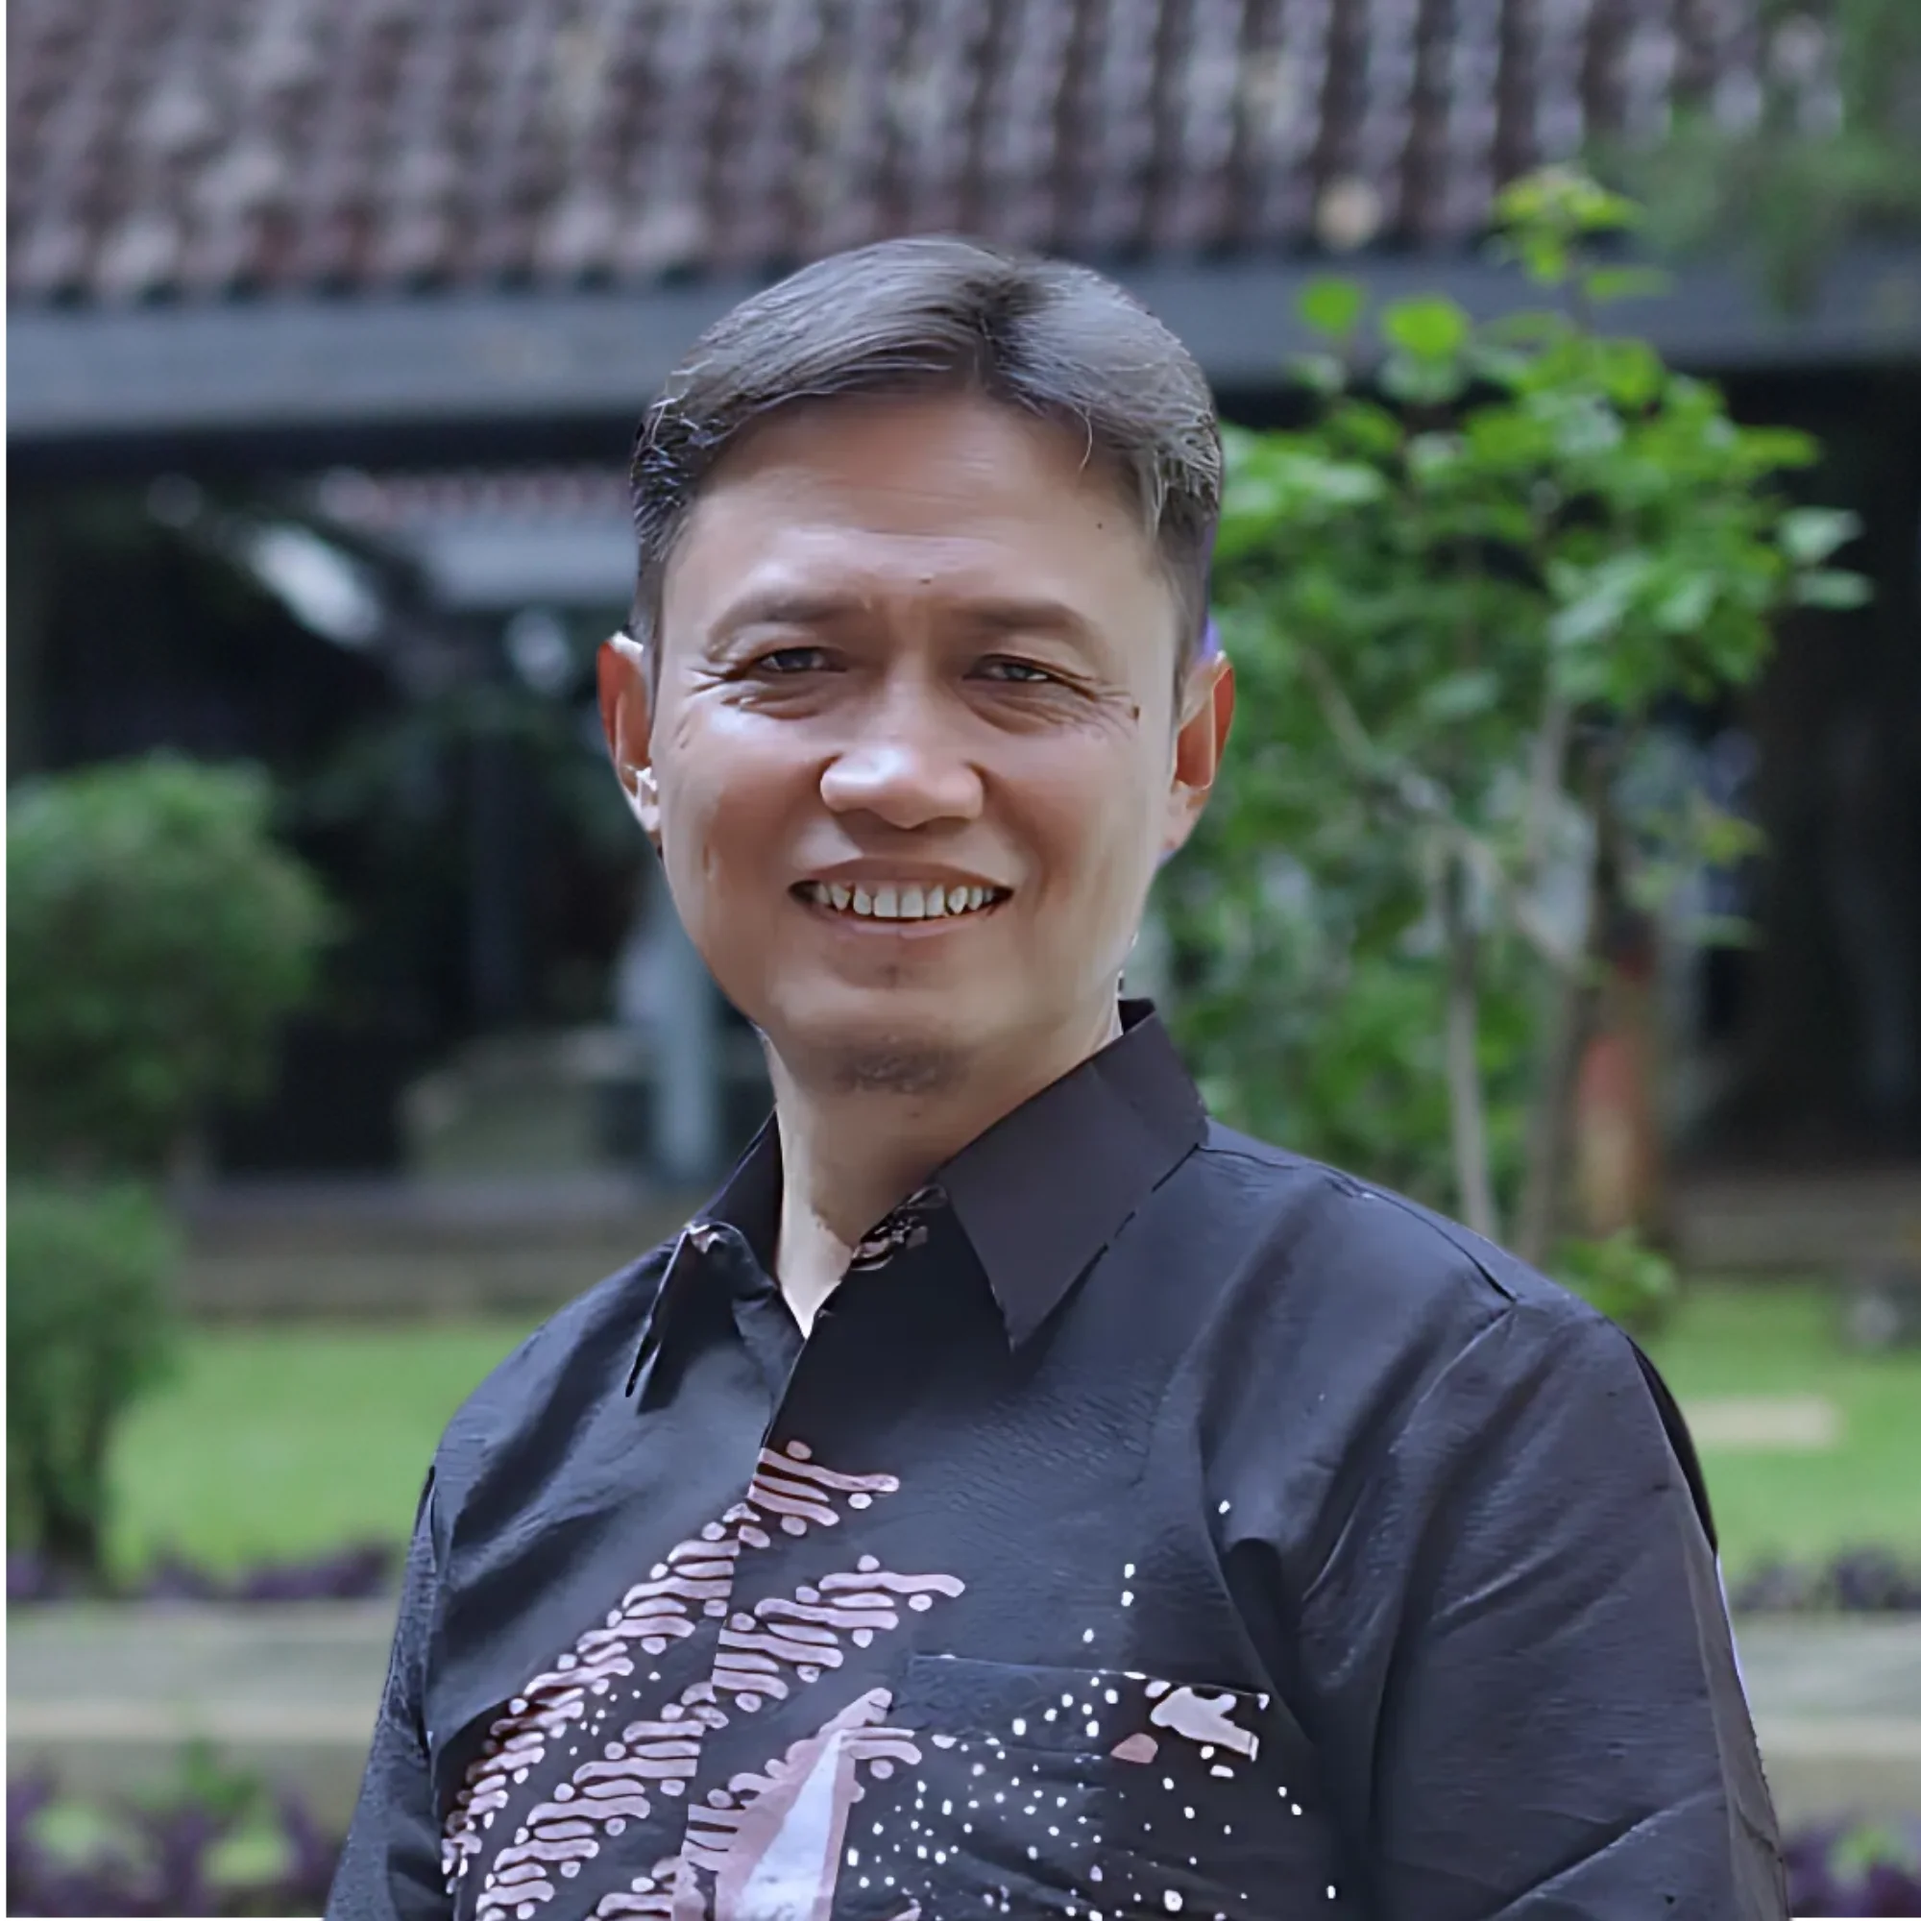
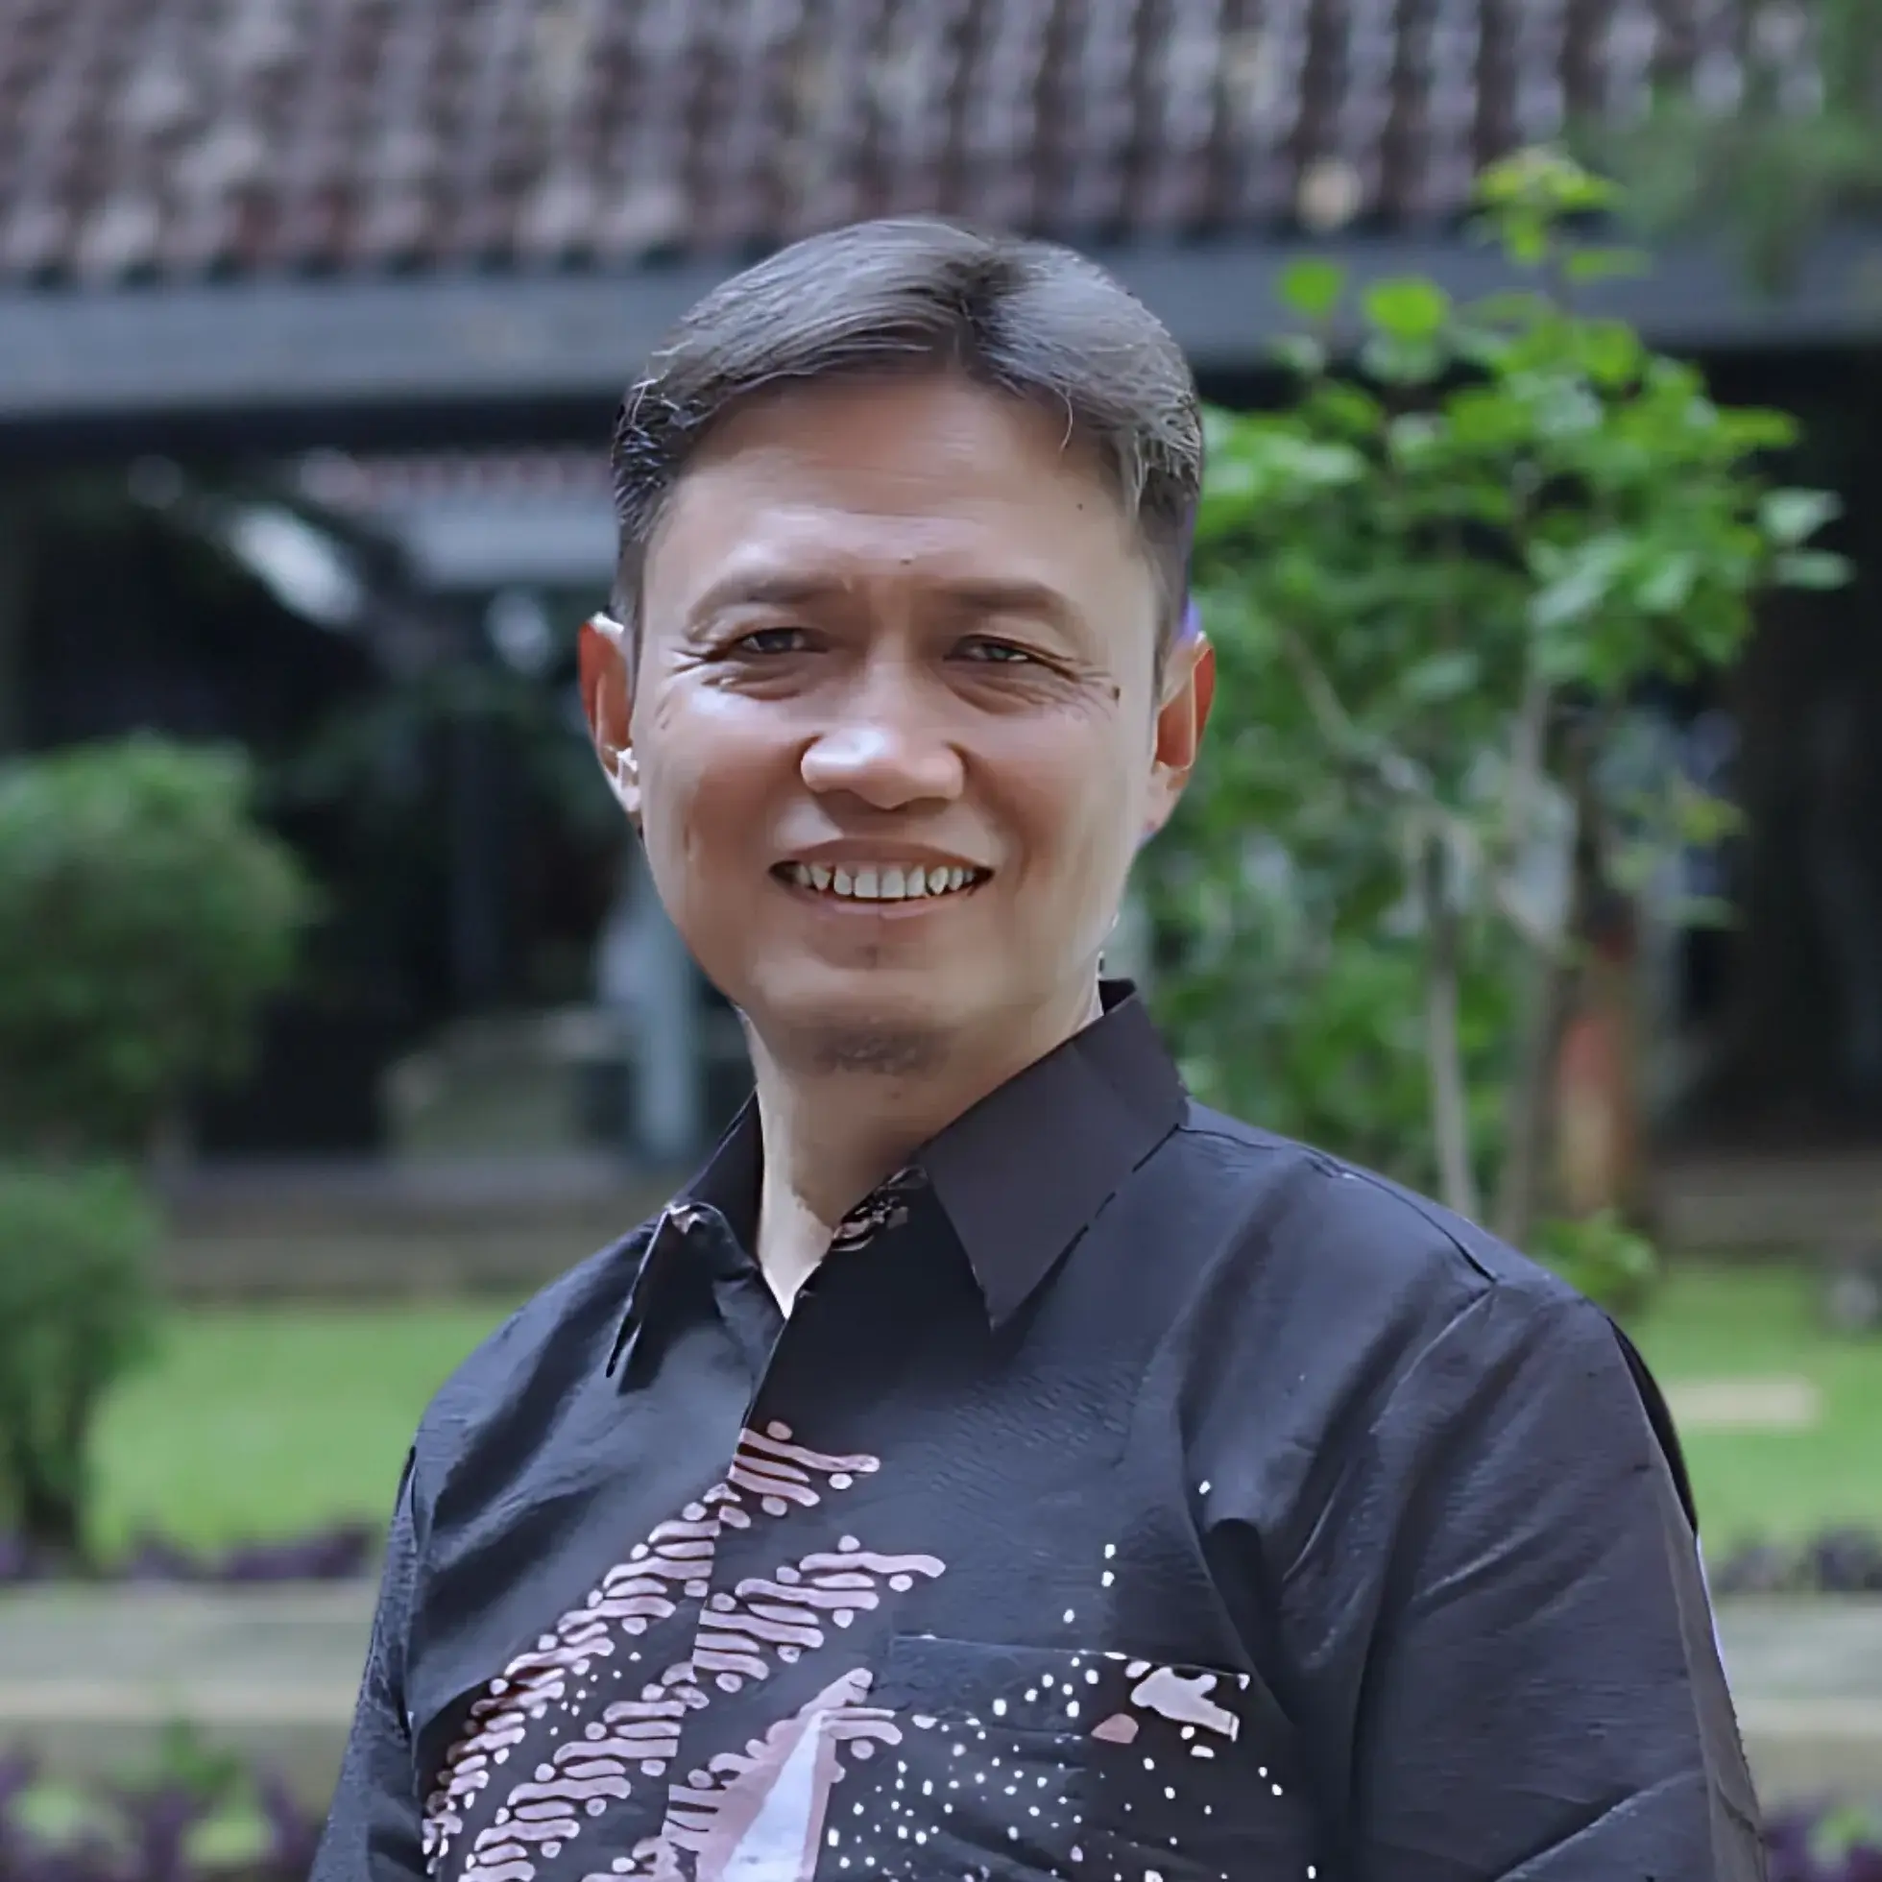
STYLE(people): refine responsive cards

diff --git a/src/components/content-page/PhotoStage.client.ts b/src/components/content-page/PhotoStage.client.ts
@@ -1,5 +1,6 @@
 class PhotoGallery extends HTMLElement {
   private controller?: AbortController;
+  private heightFrame?: number;
 
   connectedCallback() {
     this.cleanup();
@@ -43,6 +44,8 @@ class PhotoGallery extends HTMLElement {
     const measureStableHeight = () => {
       if (!this.hasAttribute("data-photo-stable-height")) return;
       if (!viewport.getClientRects().length) return;
+      // Measure the natural heights at the current width, including after shrinking.
+      viewport.style.minHeight = "";
       items.forEach((item) => (item.hidden = false));
       const height = Math.max(...items.map((item) => item.offsetHeight));
       items.forEach((item, i) => (item.hidden = i !== index));
@@ -88,14 +91,27 @@ class PhotoGallery extends HTMLElement {
     );
     render();
     if (this.hasAttribute("data-photo-stable-height")) {
-      requestAnimationFrame(measureStableHeight);
-      window.addEventListener("resize", measureStableHeight, { signal });
+      const scheduleMeasurement = () => {
+        if (this.heightFrame !== undefined)
+          cancelAnimationFrame(this.heightFrame);
+        this.heightFrame = requestAnimationFrame(() => {
+          this.heightFrame = undefined;
+          measureStableHeight();
+        });
+      };
+      window.addEventListener("resize", scheduleMeasurement, { signal });
+      scheduleMeasurement();
+      void document.fonts.ready.then(() => {
+        if (!signal.aborted) scheduleMeasurement();
+      });
     }
     this.dataset.ready = "";
   }
 
   private cleanup() {
     this.controller?.abort();
+    if (this.heightFrame !== undefined) cancelAnimationFrame(this.heightFrame);
+    this.heightFrame = undefined;
   }
   disconnectedCallback() {
     this.cleanup();
